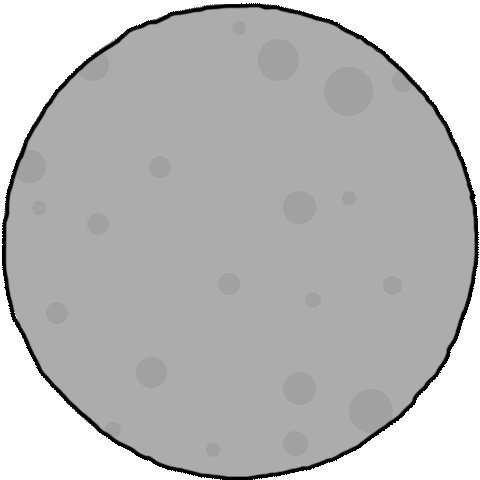
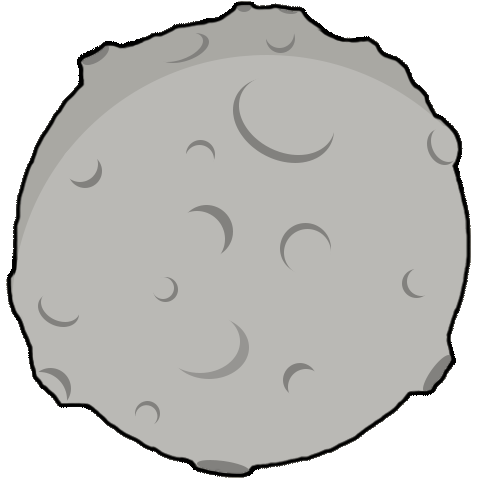
levels

diff --git a/Code/core/src/edu/cornell/gdiac/controller/PlayMode.java b/Code/core/src/edu/cornell/gdiac/controller/PlayMode.java
@@ -112,6 +112,23 @@ public class PlayMode extends WorldController implements ContactListener {
     /** The texture file for the planets */
     protected static final String NEUTRAL_P = "space/planets/neutral.png";
 
+    /** The texture file for the planets */
+    protected static final String MOUSE= "space/planets/mouse.png";
+
+    /** The texture file for the planets */
+    protected static final String WASD= "space/planets/wasd.png";
+
+    /** The texture file for the planets */
+    protected static final String SPACEBAR= "space/planets/spacebar.png";
+
+    /** The texture file for the planets */
+    protected static final String RESET= "space/background/reset.png";
+
+    /** The texture file for the planets */
+    protected static final String PAUSE= "space/background/pause.png";
+
+    protected String LEVEL;
+
 
     /** The texture file for the planets */
     protected static final String SETTINGS_TEXTURE = "space/menus/settings_planet.png";
@@ -233,6 +250,7 @@ public class PlayMode extends WorldController implements ContactListener {
     //control = 0 is keyboard, control = 1 is mouse
     protected int control = 1;
 
+
     protected TextureRegion blackHoleTexture;
 
     /** Planet texture */
@@ -259,6 +277,13 @@ public class PlayMode extends WorldController implements ContactListener {
 
     /** Planet texture */
     protected TextureRegion red_P_1_Texture;    protected TextureRegion red_P_2_Texture;    protected TextureRegion red_P_3_Texture;
+
+
+    /** Planet texture */
+    protected TextureRegion mouse_Texture;    protected TextureRegion wasd_Texture;    protected TextureRegion spacebar_Texture;
+
+    /** Planet texture */
+    protected TextureRegion reset_Texture;    protected TextureRegion pause_Texture;
 
 
     protected TextureRegion asteroid_Texture;
@@ -430,6 +455,13 @@ public class PlayMode extends WorldController implements ContactListener {
         manager.load(RED_P_2, Texture.class);   assets.add(RED_P_2);
         manager.load(RED_P_3, Texture.class);   assets.add(RED_P_3);
 
+        manager.load(MOUSE, Texture.class);   assets.add(MOUSE);
+        manager.load(WASD, Texture.class);   assets.add(WASD);
+        manager.load(SPACEBAR, Texture.class);   assets.add(SPACEBAR);
+        manager.load(PAUSE, Texture.class);   assets.add(PAUSE);
+        manager.load(RESET, Texture.class);   assets.add(RESET);
+
+
         manager.load(SUN_P, Texture.class); assets.add(SUN_P);
 
         manager.load(BLACK_HOLE, Texture.class);    assets.add(BLACK_HOLE);
@@ -523,6 +555,14 @@ public class PlayMode extends WorldController implements ContactListener {
         red_P_3_Texture = createTexture(manager, RED_P_3,false);
 
         asteroid_Texture = createTexture(manager, ASTEROID, false);
+
+        mouse_Texture = createTexture(manager, MOUSE, false);
+        wasd_Texture = createTexture(manager, WASD, false);
+        spacebar_Texture = createTexture(manager, SPACEBAR, false);
+        pause_Texture = createTexture(manager, PAUSE, false);
+        reset_Texture = createTexture(manager, RESET, false);
+
+
 
         Sound explosionSound = Gdx.audio.newSound(Gdx.files.internal(EXPLOSION_SOUND));
         Sound jumpSound = Gdx.audio.newSound(Gdx.files.internal(JUMP_SOUND));
@@ -693,6 +733,7 @@ public class PlayMode extends WorldController implements ContactListener {
         setComplete(false);
         setFailure(false);
         world.setContactListener(this);
+            LEVEL=level;
         sensorFixtures = new ObjectSet<Fixture>();
         planets = new Array<PlanetModel>();
         commandPlanets = new Array<PlanetModel>();
@@ -905,7 +946,8 @@ public class PlayMode extends WorldController implements ContactListener {
             obj.setDrawScale(scale);
             obj.scalePicScale(new Vector2(.2f * obj.getRadius(), .2f * obj.getRadius()));
             obj.setName(pname);
-            if (obj.getType() == 0f || obj.getType() == 3f) {
+            //System.out.println(obj.getType());
+            if (obj.getType() == 0f) {
 
                 //Blue Planets
                 if (ii % 7 == 0) {
@@ -1036,7 +1078,18 @@ public class PlayMode extends WorldController implements ContactListener {
             }
             //Neutral Planets
             if (obj.getType() == 3f) {
-                obj.setTexture(neutral_P_Texture);
+                if (LEVEL=="T1" && ii==0) {
+                    obj.setTexture(mouse_Texture);
+                }
+                else if (LEVEL=="T2" && ii==0){
+                    obj.setTexture(wasd_Texture);
+                }
+                else if (LEVEL=="T2" && ii==2){
+                    obj.setTexture(spacebar_Texture);
+                }
+                else {
+                    obj.setTexture(neutral_P_Texture);
+                }
             }
 
             addObject(obj);
@@ -1930,6 +1983,7 @@ public class PlayMode extends WorldController implements ContactListener {
                         planet_explosion.get(0).setExploding(true);
                         planet_explosion.get(0).set_sheet(EXP_Sheet);
                         planet_explosion.get(0).createEXPtex();
+                        SoundController.getInstance().play(EXPLOSION_SOUND, EXPLOSION_SOUND, false, EFFECT_VOLUME);
                     }
                 }
                 if (planet_explosion.get(0).get_EXP_ST() > -1) {
@@ -2197,7 +2251,11 @@ public class PlayMode extends WorldController implements ContactListener {
         canvas.draw(backgroundLG, Color.WHITE, stars.get(14).x, stars.get(14).y,   stars.get(15).x, stars.get(15).y);
         canvas.draw(backgroundLG, Color.WHITE, stars.get(16).x, stars.get(16).y,   stars.get(17).x, stars.get(17).y);
 
+        if (LEVEL.contains("T")){
+            canvas.draw(reset_Texture, Color.WHITE, 5, (canvas.getHeight()-(reset_Texture.getRegionHeight()/4))-5,reset_Texture.getRegionWidth()/4,reset_Texture.getRegionHeight()/4);
+            canvas.draw(pause_Texture, Color.WHITE, canvas.getWidth()-pause_Texture.getRegionWidth()/4-5, (canvas.getHeight()-(reset_Texture.getRegionHeight()/4))-5,pause_Texture.getRegionWidth()/4,pause_Texture.getRegionHeight()/4);
 
+        }
 
 
         canvas.end();

diff --git a/Code/core/src/edu/cornell/gdiac/controller/GDXRoot.java b/Code/core/src/edu/cornell/gdiac/controller/GDXRoot.java
@@ -83,12 +83,6 @@ public class GDXRoot extends Game implements ScreenListener {
 		music = Gdx.audio.newMusic(Gdx.files.internal("audio/spaceMusic.wav"));
 		mute = false;
 		canvas  = new GameCanvas();
-		//canvas.setFullscreen(true,true);
-		//canvas.setSize(1140,740);
-		//canvas.setSize(1200,700);
-		//canvas.resize();
-		//canvas.setHeight(700);
-		//canvas.setWidth(1100);
 		loading = new LoadingMode(canvas,manager,1);
 		// Initialize the three game worlds
 		controllers = new WorldController[13];
@@ -96,17 +90,13 @@ public class GDXRoot extends Game implements ScreenListener {
 		controllers[1] = new SettingsMode();
 		controllers[2] = new LevelSelect(9);
 		controllers[3] = new PauseMenu();
-		controllers[4] = new PlayMode("Tutorial1Level1");
-		controllers[5] = new PlayMode("Tutorial1");
-		controllers[6] = new PlayMode("MainScene");
-		controllers[7] = new PlayMode("Tutorial1");
-		controllers[4] = new PlayMode("Intro Level");
-		controllers[5] = new PlayMode("Intro Level 1");
-		controllers[6] = new PlayMode("Intro Level 2");
-		controllers[7] = new PlayMode("Intro Level 3");
-		controllers[8] = new PlayMode("Tutorial1");
-		controllers[9] = new PlayMode("Tutorial2");
-		controllers[10] = new PlayMode("Level 2");
+		controllers[4] = new PlayMode("T1");
+		controllers[5] = new PlayMode("T2");
+		controllers[6] = new PlayMode("T3 ");
+		controllers[7] = new PlayMode("T4");
+		controllers[8] = new PlayMode("1");
+		controllers[9] = new PlayMode("Sun");
+		controllers[10] = new PlayMode("BH");
 		controllers[11] = new PlayMode("MainScene");
 		controllers[12] = new PlayMode("Combination");
 

diff --git a/Code/core/src/edu/cornell/gdiac/controller/MainMenu.java b/Code/core/src/edu/cornell/gdiac/controller/MainMenu.java
@@ -207,6 +207,8 @@ public class MainMenu extends PlayMode {
         else return false;
     }
 
+
+
     public void unlockedScrollScreen(){
         InputController.getInstance().setCenterCamera(true);
     }
